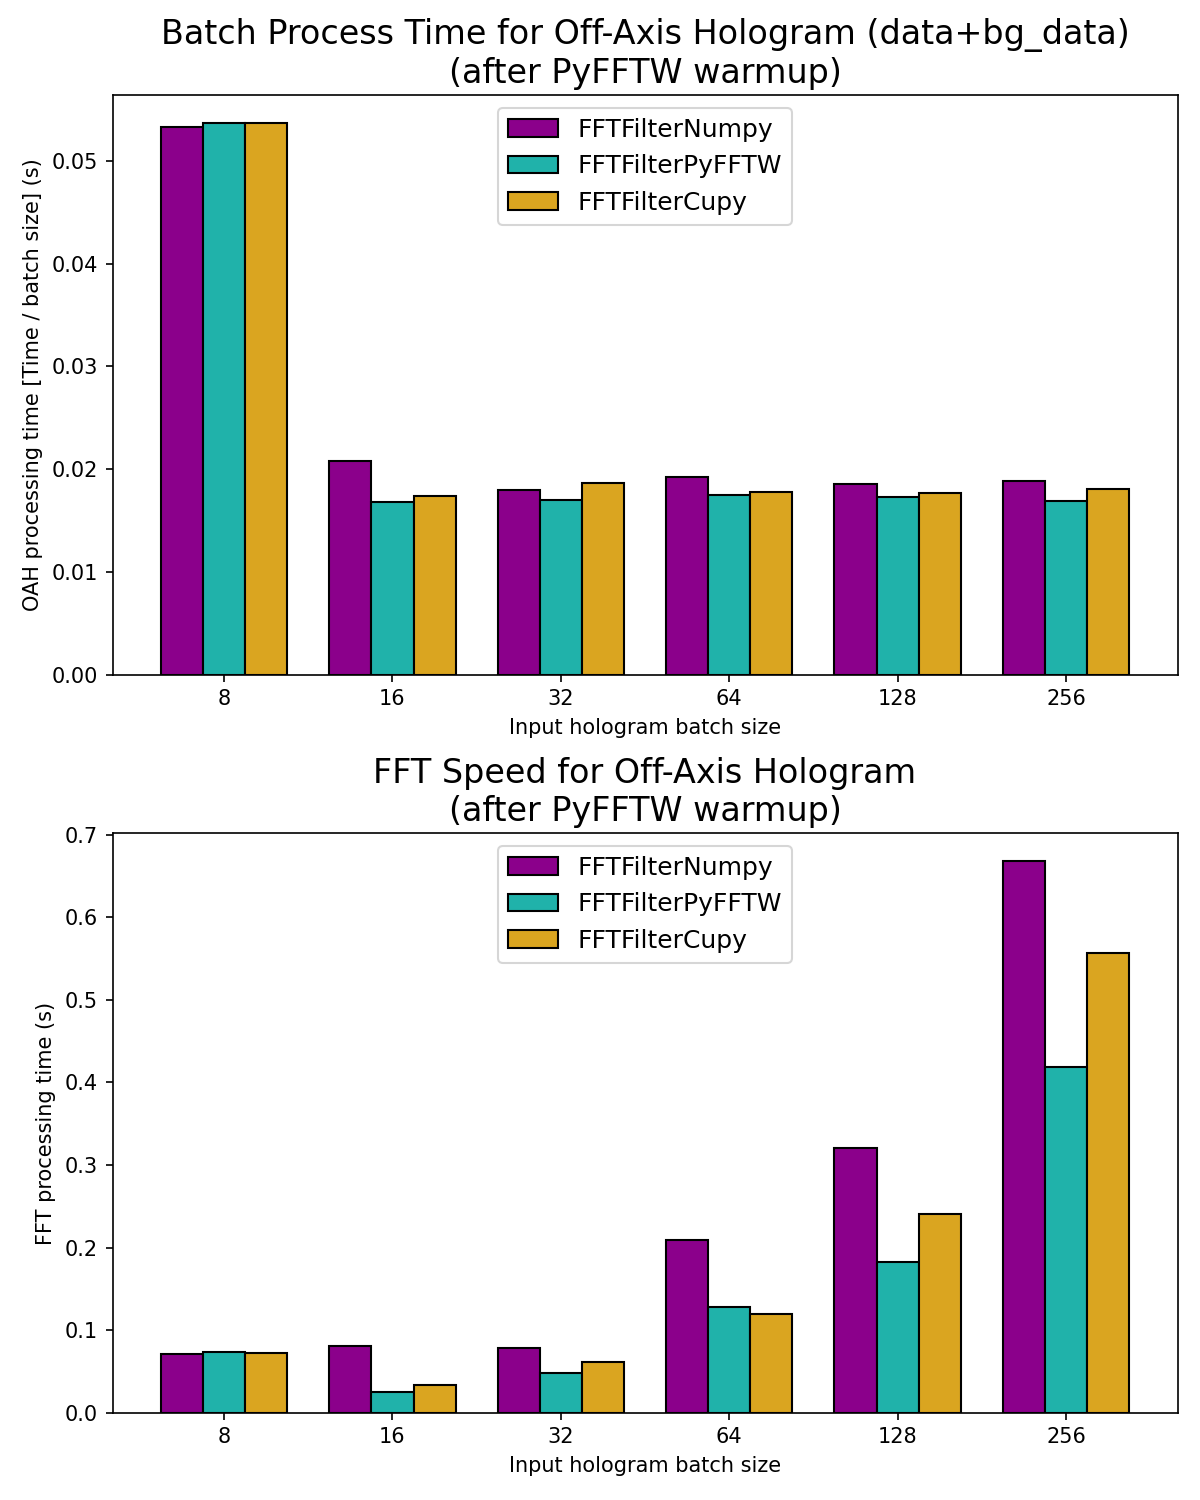
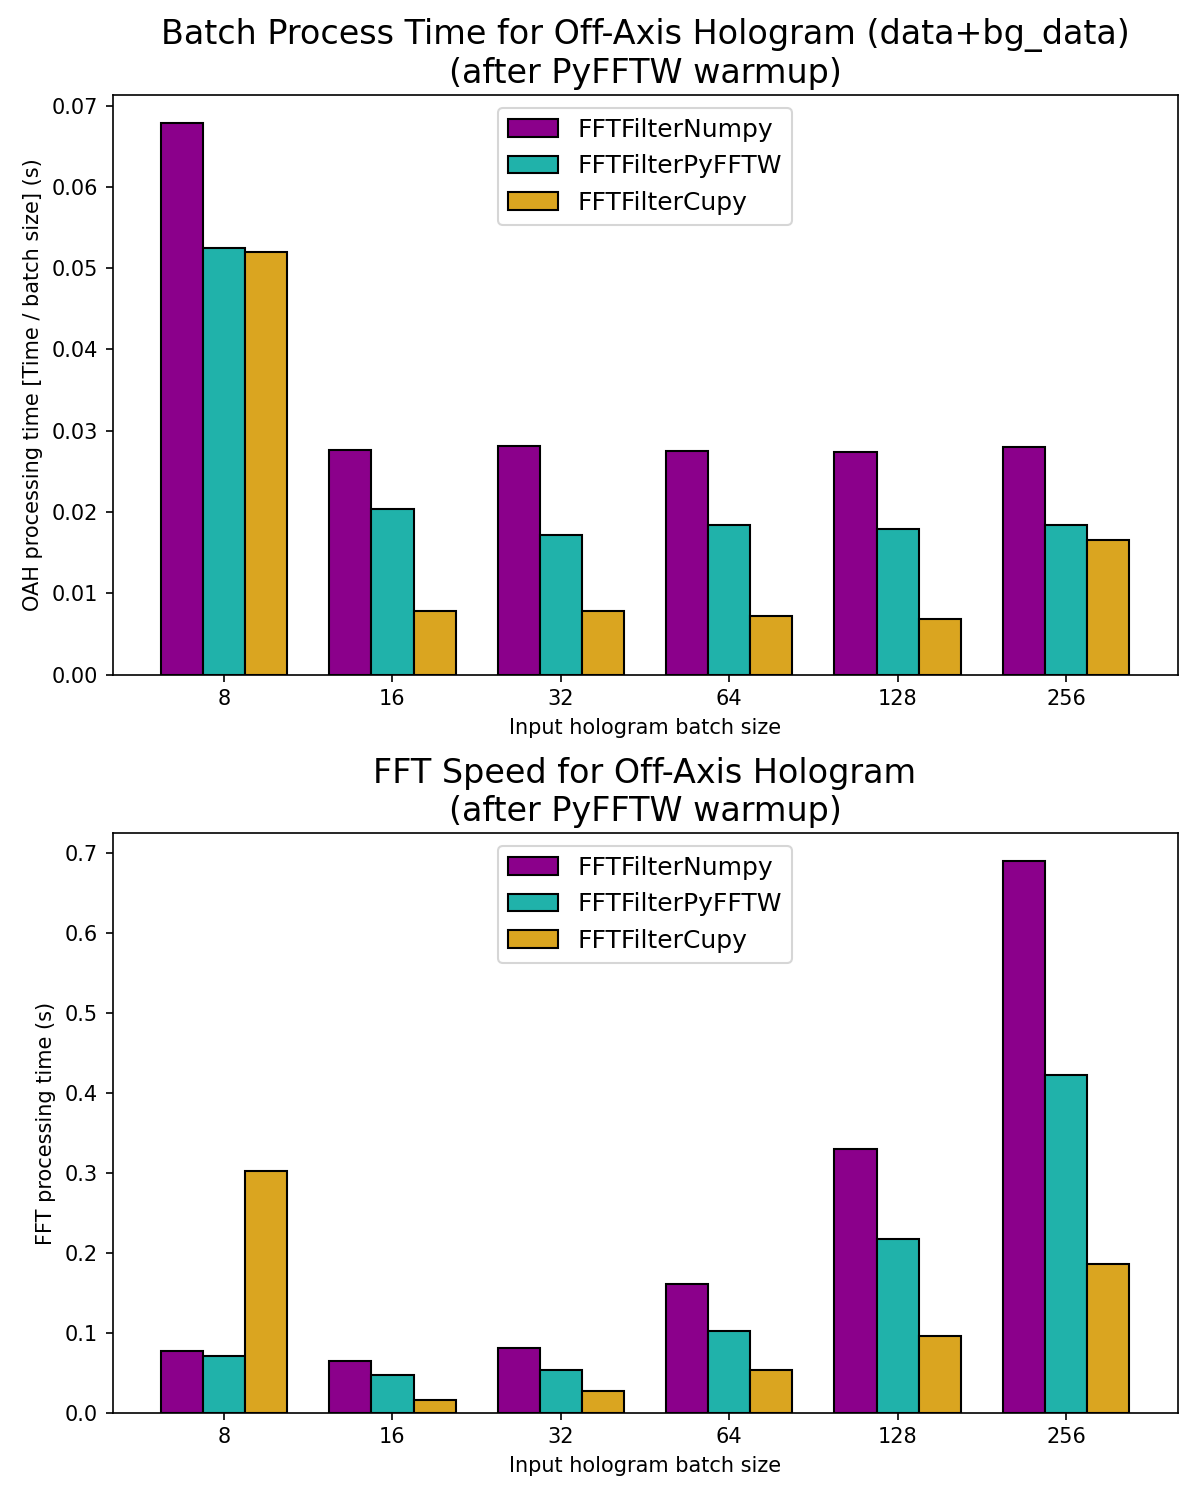
docs: correct use of benchmarking example for cupy backend and bg use of fft interface

diff --git a/examples/fft_batch_speeds.py b/examples/fft_batch_speeds.py
@@ -77,8 +77,8 @@ input_data_3d, _ = convert_data_to_3d_array_layout(data_2d)
 input_data_bg_3d, _ = convert_data_to_3d_array_layout(data_2d_bg)
 
 speed_batch_norms, speed_ffts = {}, {}
-print("Each FFTFilter will run twice, as a warmup run is "
-      "required for comparison.")
+print("Each `FFTFilter` will run twice, as the first run often needs to do "
+      "extra tasks, such as module loading or PyFFTW wisdom generation.")
 for fft_interface in fft_interfaces:
     results_batch, results_fft = {}, {}
     for n_transforms in n_transforms_list:
@@ -92,6 +92,14 @@ for fft_interface in fft_interfaces:
         assert data_3d.shape == data_3d_bg.shape == (
             n_transforms, edata["data"].shape[0], edata["data"].shape[1])
 
+        if fft_interface.__name__ == "FFTFilterCupy":
+            if not qpretrieve._ndarray_backend._is_cupy():
+                qpretrieve.set_ndarray_backend("cupy")
+            data_3d = qpretrieve.get_ndarray_backend().asarray(data_3d)
+            data_3d_bg = qpretrieve.get_ndarray_backend().asarray(data_3d_bg)
+        else:
+            qpretrieve.set_ndarray_backend("numpy")
+
         t0 = time.perf_counter()
         holo = qpretrieve.OffAxisHologram(data=data_3d,
                                           fft_interface=fft_interface,
@@ -99,7 +107,8 @@ for fft_interface in fft_interfaces:
                                           padding=padding)
         t_fft = time.perf_counter()
         holo.run_pipeline(filter_name=filter_name, filter_size=filter_size)
-        bg = qpretrieve.OffAxisHologram(data=data_3d_bg)
+        bg = qpretrieve.OffAxisHologram(data=data_3d_bg,
+                                        fft_interface=fft_interface)
         bg.process_like(holo)
         t_batch = time.perf_counter()
         results_batch[n_transforms] = t_batch - t0
